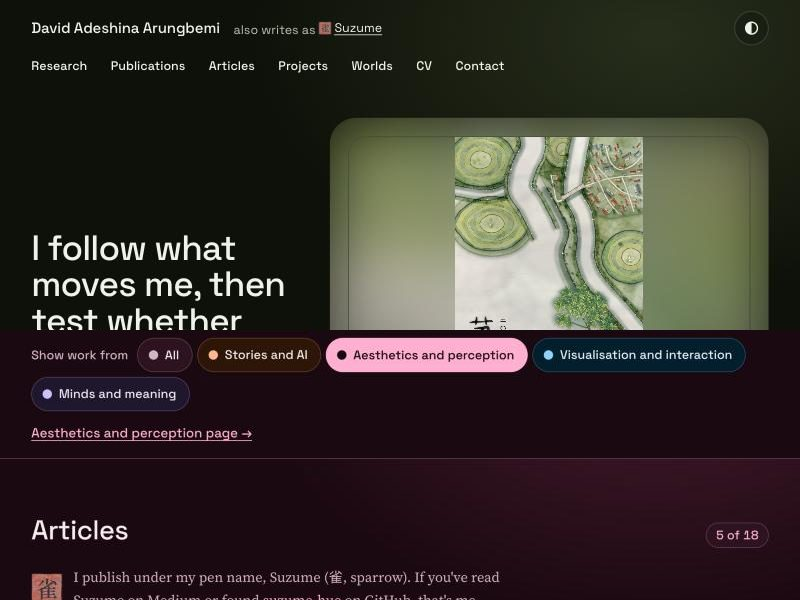
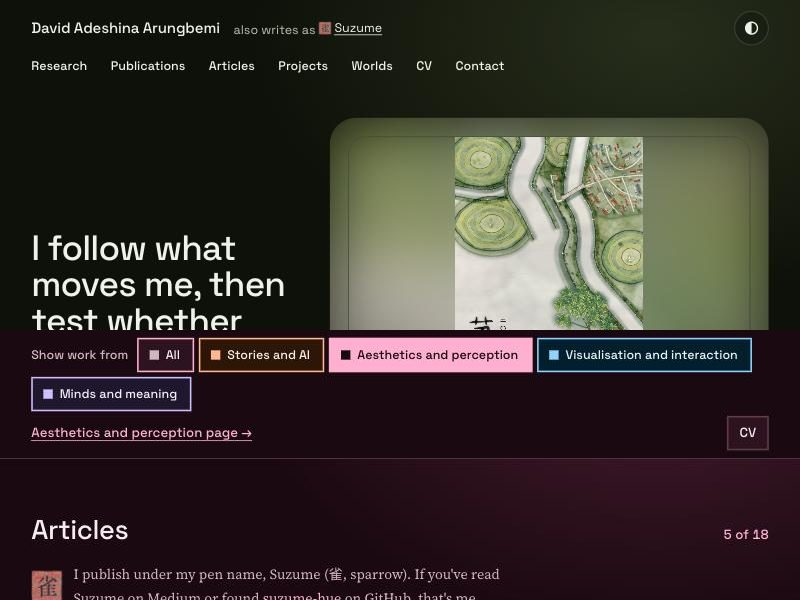
Square blocks and an even Worlds grid for direction D
David's feedback: the rounded topic fields showed a gap under their
colour bar, the Worlds cards for portrait pieces were too narrow, and he
is fine with rectangular shapes. D now uses B's square blocks with colour
bars for the topic fields, cards, topic bar, tags, contact and the
article's picture mats; only the lit screen at the top keeps A's curves.
Worlds is an even grid: every card the same width, each picture whole on
its own mat.

diff --git a/_directions/d/d.css b/_directions/d/d.css
@@ -1,5 +1,5 @@
-/* Direction D, A and B mixed: B's way through the work (topics, the topic bar, cards, counts) inside A's room
-   (dark, soft light, curves, the lit screen). Colours come only from the mood tokens in moods.css, each set
+/* Direction D, A and B mixed: B's way through the work (topics, the topic bar, cards, counts) and its square
+   blocks with colour bars, inside A's room (dark, soft light) with A's curved, lit screen at the top. Colours come only from the mood tokens in moods.css, each set
    checked for AA there; text sits only on the grounds those checks cover, or on the veils (dir_a.tune).
    White appears only as the paper behind his ink drawings. */
 
@@ -66,12 +66,12 @@ ol, ul { margin: 0; padding: 0; list-style: none; }
 .d-also { color: var(--ink-2); font: 400 1rem/1.3 var(--sans); }
 .d-also .seal-inline { display: inline-flex; align-items: center; min-height: 44px; color: var(--ink); white-space: nowrap; }
 .seal-inline img { display: inline-block; width: 16px; height: 16px; vertical-align: -2px; margin-right: .25em; }
-.d-nav { display: flex; flex-wrap: wrap; gap: 2px; margin-left: auto; }
-.d-nav a, .foot-nav a { display: inline-flex; align-items: center; justify-content: center; min-height: 44px; min-width: 44px; padding: 0 14px; border-radius: 999px;
+.d-nav { display: flex; flex-wrap: wrap; gap: 0 1.15rem; margin-left: auto; }
+.d-nav a, .foot-nav a { display: inline-flex; align-items: center; justify-content: center; min-height: 44px; min-width: 44px; padding: 0 2px; border-bottom: 4px solid transparent;
   font: 500 1rem/1 var(--sans); color: var(--ink); text-decoration: none; }
-.d-nav a:hover, .foot-nav a:hover { background: var(--ground-3); }
-.d-nav a[aria-current] { background: var(--accent); color: var(--on-accent); }
-.icon-btn { display: inline-grid; place-items: center; width: 44px; height: 44px; padding: 0; border-radius: 50%; border: 1px solid var(--line); background: var(--ground-2); color: var(--ink); cursor: pointer; }
+.d-nav a:hover, .foot-nav a:hover { border-bottom-color: var(--accent); }
+.d-nav a[aria-current] { border-bottom-color: var(--accent); }
+.icon-btn { display: inline-grid; place-items: center; width: 44px; height: 44px; padding: 0; border: 2px solid var(--line); background: var(--ground-2); color: var(--ink); cursor: pointer; }
 .icon-btn:hover { border-color: var(--accent); color: var(--accent); }
 
 /* ---------------------------------------------------------------- the hero: words and the lit screen */
@@ -125,29 +125,29 @@ ol, ul { margin: 0; padding: 0; list-style: none; }
 /* ---------------------------------------------------------------- now */
 .d-now { padding-block: clamp(8px, 2vw, 24px); }
 .d-now-card { display: grid; grid-template-columns: minmax(0, 7fr) minmax(0, 4fr); gap: clamp(24px, 5vw, 64px); align-items: center;
-  padding: clamp(18px, 3.4vw, 44px); background: var(--ground-2); border: 1px solid var(--line); border-radius: calc(var(--radius) + 6px); }
+  padding: clamp(18px, 3.4vw, 44px); background: var(--ground-2); border-top: 5px solid var(--accent); }
 .now { margin: 0; display: grid; gap: 22px; }
 .now > div { display: grid; grid-template-columns: 8rem minmax(0, 1fr); gap: 16px; align-items: baseline; }
 .now dt { font: 500 1.0625rem/1.4 var(--sans); color: var(--accent); }
 .now dd { margin: 0; font-size: 1.125rem; line-height: 1.6; color: var(--ink-2); }
 .now dd strong { color: var(--ink); }
-.head-art { margin: 0; border-radius: 18px; }
-.head-art img { width: 100%; border-radius: 18px; background: #fff; }
+.head-art { margin: 0; }
+.head-art img { width: 100%; padding: 10px; background: #fff; }
 .head-art figcaption { margin-top: 12px; color: var(--ink-2); font: 400 1rem/1.5 var(--sans); }
 
 /* ---------------------------------------------------------------- sections */
 .b-sec { padding-block: clamp(44px, 7vw, 96px); }
 .sec-head { display: flex; flex-wrap: wrap; align-items: baseline; justify-content: space-between; gap: .4rem 1.5rem; margin-bottom: 1.4rem; }
 .sec-head h2 { font-size: clamp(1.9rem, 3.4vw, 2.75rem); }
-.lens-count { margin: 0; padding: 4px 12px; border-radius: 999px; background: var(--ground-2); border: 1px solid var(--line); font: 500 1rem/1.4 var(--sans); color: var(--accent); font-variant-numeric: tabular-nums; }
-.lens-empty { margin: 0 0 1.4rem; padding: 1rem 1.2rem; max-width: 40rem; background: var(--ground-2); border: 1px solid var(--line); border-radius: 18px; font: 500 1.0625rem/1.4 var(--sans); }
+.lens-count { margin: 0; font: 500 1.0625rem/1.4 var(--sans); color: var(--accent); font-variant-numeric: tabular-nums; }
+.lens-empty { margin: 0 0 1.4rem; padding: 1rem 1.2rem; max-width: 40rem; background: var(--ground-2); border-left: 5px solid var(--accent); font: 500 1.0625rem/1.4 var(--sans); }
 .lead { max-width: 62ch; margin: 0 0 2rem; font-size: clamp(1.15rem, 1.55vw, 1.35rem); line-height: 1.6; color: var(--ink); }
 .more { display: flex; flex-wrap: wrap; gap: .5rem 1.8rem; margin: 2rem 0 0; font: 500 1.0625rem/1.3 var(--sans); }
 .more a { display: inline-flex; align-items: center; min-height: 44px; }
 
-/* the four topics: big fields of colour with curved corners, each in its own topic's colours */
+/* the four topics: big fields of colour, each in its own topic's colours, with its colour bar on top */
 .topics { display: grid; grid-template-columns: repeat(4, minmax(0, 1fr)); gap: 16px; }
-.topic { display: flex; overflow: hidden; border-radius: calc(var(--radius) + 4px); background: var(--ground-3); border-top: 10px solid var(--accent);
+.topic { display: flex; overflow: hidden; background: var(--ground-3); border-top: 10px solid var(--accent);
   transition-property: --ground, --ground-2, --ground-3, --ink, --ink-2, --line, --accent, --accent-2, --on-accent, --glow, --glow-2, --veil, --veil-2, box-shadow; }
 .topic a { display: flex; flex-direction: column; width: 100%; color: var(--ink); text-decoration: none; }
 .topic a:focus-visible { outline: none; }
@@ -168,22 +168,22 @@ ol, ul { margin: 0; padding: 0; list-style: none; }
 .lens-inner { display: flex; flex-wrap: wrap; align-items: center; gap: 6px 18px; }
 .lens-group { display: flex; flex-wrap: wrap; align-items: center; gap: 6px; }
 .lens-label { margin-right: .35rem; color: var(--ink-2); font: 500 1rem/1.2 var(--sans); }
-.lens-btn { display: inline-flex; align-items: center; gap: .55rem; min-height: 44px; padding: 0 1rem 0 .85rem; border: 1px solid var(--line); border-radius: 999px;
+.lens-btn { display: inline-flex; align-items: center; gap: .55rem; min-height: 44px; padding: 0 1rem 0 .85rem; border: 2px solid var(--accent);
   background: var(--ground-2); color: var(--ink); font: 500 1rem/1.15 var(--sans); cursor: pointer; text-align: left; }
-.lens-btn::before { content: ""; flex: none; width: 12px; height: 12px; border-radius: 50%; background: var(--accent); }
+.lens-btn::before { content: ""; flex: none; width: 12px; height: 12px; background: var(--accent); }
 .lens-btn:not([data-mood])::before { background: var(--ink-2); }
-.lens-btn:hover { border-color: var(--accent); }
+.lens-btn:hover { background: var(--ground-3); }
 .lens-btn[aria-pressed="true"] { background: var(--accent); border-color: var(--accent); color: var(--on-accent); }
 .lens-btn[aria-pressed="true"]::before { background: var(--on-accent); }
 .lens-cv { margin: 0 0 0 auto; font: 500 1.0625rem/1.2 var(--sans); }
-.lens-cv a { display: inline-flex; align-items: center; justify-content: center; min-height: 44px; min-width: 44px; padding: 0 14px; border-radius: 999px; border: 1px solid var(--line); background: var(--ground-2); color: var(--ink); text-decoration: none; }
+.lens-cv a { display: inline-flex; align-items: center; justify-content: center; min-height: 44px; min-width: 44px; padding: 0 14px; border: 2px solid var(--line); background: var(--ground-2); color: var(--ink); text-decoration: none; }
 .lens-cv a:hover { border-color: var(--accent); }
 .lens-go { margin: 0; font: 500 1.0625rem/1.2 var(--sans); }
 .lens-go a { display: inline-flex; align-items: center; min-height: 44px; }
 
 /* ---------------------------------------------------------------- cards */
 .cards { display: grid; grid-template-columns: repeat(auto-fill, minmax(min(100%, 19rem), 1fr)); gap: clamp(16px, 2vw, 26px); }
-.item, .pub, .near, .world, .feature { background: var(--ground-2); border: 1px solid var(--line); border-radius: var(--radius); color: var(--ink); }
+.item, .pub, .near, .world, .feature { background: var(--ground-2); border-top: 5px solid var(--accent); color: var(--ink); }
 .item, .pub { position: relative; display: flex; flex-direction: column; min-width: 0; overflow: hidden; transition-property: --ground, --ground-2, --ground-3, --ink, --ink-2, --line, --accent, --accent-2, --on-accent, --glow, --glow-2, --veil, --veil-2, box-shadow; }
 .item:hover, .pub:hover { box-shadow: 0 26px 70px -30px var(--glow); }
 .item-thumb, .pub-thumb { display: block; aspect-ratio: 4 / 3; overflow: hidden; background: var(--ground-3); }
@@ -201,7 +201,7 @@ ol, ul { margin: 0; padding: 0; list-style: none; }
 .pub-cite { margin: 0 0 .6rem; color: var(--ink-2); font-size: 1.0625rem; line-height: 1.5; }
 .pub-cite strong { color: var(--ink); }
 .tags { display: flex; flex-wrap: wrap; gap: 6px; margin: auto 0 0; padding-top: .6rem; }
-.tags li { padding: 3px 11px; border: 1px solid var(--line); border-radius: 999px; color: var(--ink-2); font: 500 .9375rem/1.4 var(--sans); }
+.tags li { padding: 2px 9px; background: var(--ground-3); color: var(--ink); font: 500 .9375rem/1.4 var(--sans); }
 .item-extra, .pub-links { position: relative; z-index: 1; display: flex; flex-wrap: wrap; gap: 0 1.2rem; margin: .4rem 0 0; font: 500 1rem/1.3 var(--sans); }
 .item-extra a, .pub-links a { display: inline-flex; align-items: center; min-height: 44px; }
 .item-title a:focus-visible, .pub-title a:focus-visible, .feature-title a:focus-visible { outline: none; }
@@ -216,13 +216,14 @@ ol, ul { margin: 0; padding: 0; list-style: none; }
 .suzume img { flex: none; width: 40px; }
 .suzume p { margin: 0; }
 .feature { position: relative; display: grid; grid-template-columns: minmax(0, 1.1fr) minmax(0, 1fr); align-items: center; gap: clamp(18px, 4vw, 44px);
-  margin-bottom: 2.4rem; padding: clamp(14px, 2.4vw, 26px); border-radius: calc(var(--radius) + 6px);
+  margin-bottom: 2.4rem; padding: 0; background: var(--ground-3); border-top-width: 10px;
   transition-property: --ground, --ground-2, --ground-3, --ink, --ink-2, --line, --accent, --accent-2, --on-accent, --glow, --glow-2, --veil, --veil-2, box-shadow; }
 .feature:hover { box-shadow: 0 30px 80px -34px var(--glow); }
-.feature-art { display: block; aspect-ratio: 4 / 3; overflow: hidden; border-radius: 18px; background: var(--ground-3); }
+.feature-art { display: block; aspect-ratio: 4 / 3; overflow: hidden; background: var(--ground-2); }
 .feature-art.is-ink { background: #fff; }
 .feature-art img { width: 100%; height: 100%; object-fit: cover; }
-.feature-text { padding-block: 4px; }
+.feature-text { padding: clamp(18px, 3vw, 40px); }
+.feature .tags li { background: var(--ground-2); }
 .feature-title { margin: 0 0 .6rem; font-size: clamp(1.8rem, 3.2vw, 2.6rem); line-height: 1.06; letter-spacing: -.024em; }
 .feature-title a { color: var(--ink); text-decoration: none; }
 .feature-title a::after { content: ""; position: absolute; inset: 0; }
@@ -231,43 +232,42 @@ ol, ul { margin: 0; padding: 0; list-style: none; }
 .group { margin-top: 2.6rem; }
 .group-title { margin: 0 0 1.1rem; font-size: 1.45rem; color: var(--ink-2); }
 
-/* Worlds: his art at its own proportions, rows of pictures sharing one height; nothing is cropped */
-.wall { display: flex; flex-wrap: wrap; gap: 16px; }
-.world { flex: var(--r, 1.3) 1 calc(var(--r, 1.3) * 300px); max-width: calc(var(--r, 1.3) * 430px); min-width: 0; margin: 0; display: flex; flex-direction: column; overflow: hidden;
+/* Worlds: an even grid, each picture whole on its own mat; nothing is cropped */
+.wall { display: grid; grid-template-columns: repeat(auto-fill, minmax(min(100%, 17rem), 1fr)); gap: clamp(16px, 2vw, 26px); }
+.world { min-width: 0; margin: 0; display: flex; flex-direction: column; overflow: hidden;
   transition-property: --ground, --ground-2, --ground-3, --ink, --ink-2, --line, --accent, --accent-2, --on-accent, --glow, --glow-2, --veil, --veil-2, box-shadow; }
 .world:hover { box-shadow: 0 26px 70px -30px var(--glow); }
-.world-media { display: block; background: var(--ground-3); }
-.world-media img { width: 100%; height: auto; }
-.world-media:focus-visible { outline-offset: -4px; border-radius: var(--radius) var(--radius) 0 0; }
+.world-media { position: relative; display: block; aspect-ratio: 4 / 3; background: var(--ground-3); }
+.world-media img { position: absolute; inset: 12px; width: calc(100% - 24px); height: calc(100% - 24px); object-fit: contain; }
+.world-media:focus-visible { outline-offset: -4px; }
 .world figcaption { flex: 1; padding: .85rem 1.1rem 1.05rem; color: var(--ink-2); font-size: 1.0625rem; line-height: 1.5; }
 .world strong { display: block; margin-bottom: 2px; color: var(--ink); font: 500 1.0625rem/1.3 var(--sans); }
 .world-desc { display: block; }
-.world-year { display: inline-block; margin-top: 8px; padding: 2px 10px; border: 1px solid var(--line); border-radius: 999px; color: var(--ink-2); font: 500 .9375rem/1.4 var(--sans); }
+.world-year { display: inline-block; margin-top: 8px; color: var(--accent); font: 500 .9375rem/1.4 var(--sans); }
 
 /* ---------------------------------------------------------------- contact and footer */
 .contact-list { display: grid; grid-template-columns: repeat(auto-fill, minmax(min(100%, 17rem), 1fr)); gap: 14px; }
-.contact-list li { display: flex; flex-direction: column; gap: .2rem; padding: .9rem 1.15rem 1rem; background: var(--ground-2); border: 1px solid var(--line); border-radius: 18px; overflow-wrap: anywhere; }
+.contact-list li { display: flex; flex-direction: column; gap: .2rem; padding: .9rem 1.15rem 1rem; background: var(--ground-2); border-top: 5px solid var(--accent); overflow-wrap: anywhere; }
 .contact-label { font: 500 1rem/1.4 var(--sans); color: var(--ink-2); }
 .contact-list a { display: inline-flex; align-items: center; min-height: 44px; color: var(--ink); }
 .d-foot { border-top: 1px solid var(--line); }
 .d-foot .wrap { padding-block: 24px 36px; }
-.foot-nav { display: flex; flex-wrap: wrap; gap: 2px; margin-left: -14px; }
+.foot-nav { display: flex; flex-wrap: wrap; gap: 0 1.15rem; }
 .foot-nav a { color: var(--ink-2); }
 .d-foot p { margin: .8rem 0 0; color: var(--ink-2); font-size: 1.0625rem; }
 .seal-tiny { display: inline-block; width: 14px; height: 14px; vertical-align: -2px; }
 
 /* ---------------------------------------------------------------- topic page */
 .d-band-wrap { padding-block: clamp(8px, 2vw, 24px) clamp(8px, 3vw, 32px); }
-.d-band { padding: clamp(24px, 6vw, 80px); background: var(--ground-3); border-top: 10px solid var(--accent); border-radius: calc(var(--radius) + 12px); }
+.d-band { padding: clamp(24px, 6vw, 80px); background: var(--ground-3); border-top: 10px solid var(--accent); }
 .kicker { margin: 0; font: 500 1.0625rem/1.4 var(--sans); color: var(--accent); }
 .d-band h1 { margin: .2em 0 .4em; font-size: clamp(2.2rem, 7.4vw, 6.2rem); line-height: .98; letter-spacing: -.035em; overflow-wrap: break-word; max-width: 14ch; }
 .statement { max-width: 66ch; margin: 0; font: 400 clamp(1.15rem, 1.7vw, 1.4rem)/1.65 var(--serif); }
 .tabs { display: flex; flex-wrap: wrap; align-items: center; gap: 8px; margin-top: 2rem; }
 .tabs-label { margin-right: .4rem; color: var(--ink-2); font: 500 1rem/1.2 var(--sans); }
-.tab { display: inline-flex; align-items: center; gap: .55rem; min-height: 46px; padding: 0 1.1rem 0 .9rem; border: 1px solid var(--line); border-radius: 999px;
+.tab { display: inline-flex; align-items: center; gap: .55rem; min-height: 46px; padding: 0 1.1rem; border: 0; border-top: 5px solid var(--accent);
   background: var(--ground-2); color: var(--ink); font: 500 1.0625rem/1.2 var(--sans); text-decoration: none; }
-.tab::before { content: ""; flex: none; width: 12px; height: 12px; border-radius: 50%; background: var(--accent); }
-.tab:hover { border-color: var(--accent); }
+.tab:hover { background: var(--ground-3); }
 
 /* ---------------------------------------------------------------- article */
 .read-progress { position: fixed; top: 0; left: 0; right: 0; height: 4px; z-index: 40; background: var(--accent); transform-origin: 0 50%; transform: scaleX(0); }
@@ -281,13 +281,13 @@ ol, ul { margin: 0; padding: 0; list-style: none; }
 .post-byline span { color: var(--ink-2); }
 .post-byline img { width: 26px; height: 26px; }
 .d-strip .post-wrap { display: flex; flex-wrap: wrap; align-items: center; gap: 8px; padding-bottom: 8px; }
-.post-cover { max-width: 40rem; margin: 1.5rem auto 3.2rem; padding: clamp(12px, 3vw, 30px); background: var(--ground-3); border-radius: calc(var(--radius) + 8px); }
-.post-cover img { width: auto; max-width: 100%; max-height: 76vh; margin: 0 auto; border-radius: 14px; }
+.post-cover { max-width: 40rem; margin: 1.5rem auto 3.2rem; padding: clamp(12px, 3vw, 30px); background: var(--ground-3); border-top: 5px solid var(--accent); }
+.post-cover img { width: auto; max-width: 100%; max-height: 76vh; margin: 0 auto; }
 .post-body { display: grid; grid-template-columns: [wide-start] minmax(0, 1fr) [text-start] minmax(0, 40rem) [text-end] minmax(0, 1fr) [wide-end];
   max-width: 64rem; margin: 0 auto; padding-inline: var(--gutter); font-size: clamp(1.15rem, 1.3vw, 1.3rem); line-height: 1.78; }
 .post-body > * { grid-column: text; min-width: 0; }
-.post-body > figure { grid-column: wide; margin: 1.8rem 0 2.8rem; padding: clamp(12px, 2.6vw, 30px); background: var(--ground-3); border-radius: calc(var(--radius) + 8px); }
-.post-body figure img { max-width: 100%; margin: 0 auto; border-radius: 14px; }
+.post-body > figure { grid-column: wide; margin: 1.8rem 0 2.8rem; padding: clamp(12px, 2.6vw, 30px); background: var(--ground-3); border-top: 5px solid var(--accent); }
+.post-body figure img { max-width: 100%; margin: 0 auto; }
 .post-body figcaption { max-width: 60ch; margin: .9rem auto 0; text-align: center; color: var(--ink-2); font: 400 1rem/1.55 var(--sans); }
 .post-body h2 { margin: 2em 0 .6em; font-size: clamp(1.6rem, 2.6vw, 2.1rem); line-height: 1.2; }
 .post-body h3 { margin: 1.8em 0 .5em; font: italic 600 clamp(1.25rem, 1.8vw, 1.45rem)/1.3 var(--serif); letter-spacing: 0; }
@@ -297,7 +297,7 @@ ol, ul { margin: 0; padding: 0; list-style: none; }
 .post-body ul, .post-body ol { margin: 0 0 1.3em; padding-left: 1.4em; list-style: revert; }
 .post-body li { margin: 0 0 .45em; }
 .post-body li::marker { color: var(--accent); }
-.post-body pre { margin: 0 0 1.5em; padding: 1rem 1.2rem; overflow-x: auto; background: var(--ground-2); border-radius: 14px; font-size: .9375rem; line-height: 1.55; }
+.post-body pre { margin: 0 0 1.5em; padding: 1rem 1.2rem; overflow-x: auto; background: var(--ground-2); font-size: .9375rem; line-height: 1.55; }
 .post-body code { padding: .1em .35em; background: var(--ground-2); border-radius: 6px; font-family: ui-monospace, Menlo, Consolas, monospace; font-size: .88em; }
 .post-body pre code { padding: 0; background: none; }
 .post-body hr { width: 80px; height: 2px; margin: 2.4em auto; border: 0; background: var(--line); }
@@ -311,7 +311,7 @@ ol, ul { margin: 0; padding: 0; list-style: none; }
 .near { display: flex; align-items: center; gap: 14px; min-height: 44px; padding: 12px; color: var(--ink); text-decoration: none;
   transition-property: --ground, --ground-2, --ground-3, --ink, --ink-2, --line, --accent, --accent-2, --on-accent, --glow, --glow-2, --veil, --veil-2, box-shadow; }
 .near:hover { box-shadow: 0 24px 60px -30px var(--glow); }
-.near img { flex: none; width: 88px; height: 88px; object-fit: cover; border-radius: 14px; }
+.near img { flex: none; width: 88px; height: 88px; object-fit: cover; }
 .near .item-kind { display: block; margin-bottom: 2px; }
 .near-title { display: block; font: 500 1.0625rem/1.3 var(--sans); }
 
@@ -321,7 +321,7 @@ ol, ul { margin: 0; padding: 0; list-style: none; }
 }
 @media (max-width: 1060px) {
   .topics { grid-template-columns: repeat(2, minmax(0, 1fr)); }
-  .d-nav { order: 3; flex-basis: 100%; margin-left: -14px; }
+  .d-nav { order: 3; flex-basis: 100%; margin-left: 0; }
   .d-also { margin-right: auto; }
 }
 @media (max-width: 900px) {
@@ -349,12 +349,10 @@ ol, ul { margin: 0; padding: 0; list-style: none; }
   .showcase-picks a { padding-right: 5px; justify-content: center; }
   .topics { grid-template-columns: 1fr; }
   .now > div { grid-template-columns: 1fr; gap: 2px; }
-  .world { flex: 1 1 100%; max-width: 100%; }
   .nears { grid-template-columns: 1fr; }
   .d-name { font-size: 1.1rem; }
   /* the nav: compact pills in two rows, so every link shows (CV included) without three rows before the page starts */
-  .d-nav { gap: 2px 0; margin-left: -10px; }
-  .d-nav a { padding: 0 10px; font-size: .9375rem; }
+  .d-nav { gap: 0 1rem; }
   .lens-cv { margin-left: 0; }
 }
 
